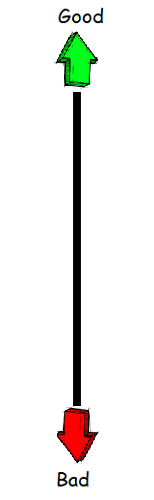
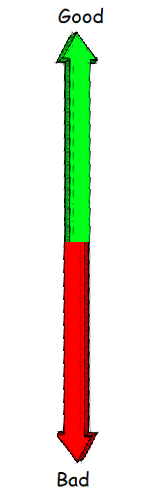
1- Change the real estate scale template image 2- Change the real estate graph design 3- Set the date and customer name location in the HTML template

Changed region(s): [[0.3896, 0.15, 0.5974, 0.84]]

diff --git a/ExtractOSMMapProd/Resources/HTMLReportTemplate.html b/ExtractOSMMapProd/Resources/HTMLReportTemplate.html
@@ -161,8 +161,8 @@
                         </div>
                         <h1 class="title">[TotalIndex]</h1>
                         <div class="row">
-                            <span class="col-lg-6 col-md-6 col-sm-12 text-right">[CustomerName]</span>
-                            <span class="col-lg-6 col-md-6 col-sm-12 text-left">[CurrentDate]</span>
+                            <span class="col-lg-6 col-md-6 col-sm-12 d-block">[CustomerName]</span>
+                            <span class="col-lg-6 col-md-6 col-sm-12 d-block">[CurrentDate]</span>
                         </div>
                     </div>
                 </div>

diff --git a/ShortReportGenerate/ShortReportGen/Resources/HTMLReportTemplate.html b/ShortReportGenerate/ShortReportGen/Resources/HTMLReportTemplate.html
@@ -161,8 +161,8 @@
                         </div>
                         <h1 class="title">[TotalIndex]</h1>
                         <div class="row">
-                            <span class="col-lg-6 col-md-6 col-sm-12 text-right">[CustomerName]</span>
-                            <span class="col-lg-6 col-md-6 col-sm-12 text-left">[CurrentDate]</span>
+                            <span class="col-lg-6 col-md-6 col-sm-12 d-block">[CustomerName]</span>
+                            <span class="col-lg-6 col-md-6 col-sm-12 d-block">[CurrentDate]</span>
                         </div>
                     </div>
                 </div>

diff --git a/ShortReportGenerate/ShortReportGen/Models/html2Image.cs b/ShortReportGenerate/ShortReportGen/Models/html2Image.cs
@@ -126,13 +126,14 @@ namespace ShortReportGen
             {
                 // let's add the information of the compared sites indices in a List
                 // this table should be created and moved to DB to allow a flexible data modifying
+                string barColor = "'stroke-color: #000000; stroke-width: 2; fill-color: #FFFFFF'";
                 List<Sites> lstSites = new List<Sites>
-                {
-                    new Sites {siteName = "'Taj Mahal'", index=9.0f, style="'color:#0096FF'"},
-                    new Sites {siteName = "'Empire state'", index=7.4f, style="'color:#0096FF'"},
-                    new Sites {siteName = "'Niagara Falls'", index=8.6f, style="'color:#0096FF'"},
-                    new Sites {siteName = "'Shanghai Center'", index=7.4f, style="'color:#0096FF'"},
-                    new Sites {siteName = "'Luanda Center'", index=6.6f, style="'color:#0096FF'"}
+                { 
+                    new Sites {siteName = "'Taj Mahal'", index=9.0f, style=barColor},
+                    new Sites {siteName = "'Empire state'", index=7.4f, style=barColor},
+                    new Sites {siteName = "'Niagara Falls'", index=8.6f, style=barColor},
+                    new Sites {siteName = "'Shanghai Center'", index=7.4f, style=barColor},
+                    new Sites {siteName = "'Luanda Center'", index=6.6f, style=barColor}
                 };
                 
                 // add the current location index
